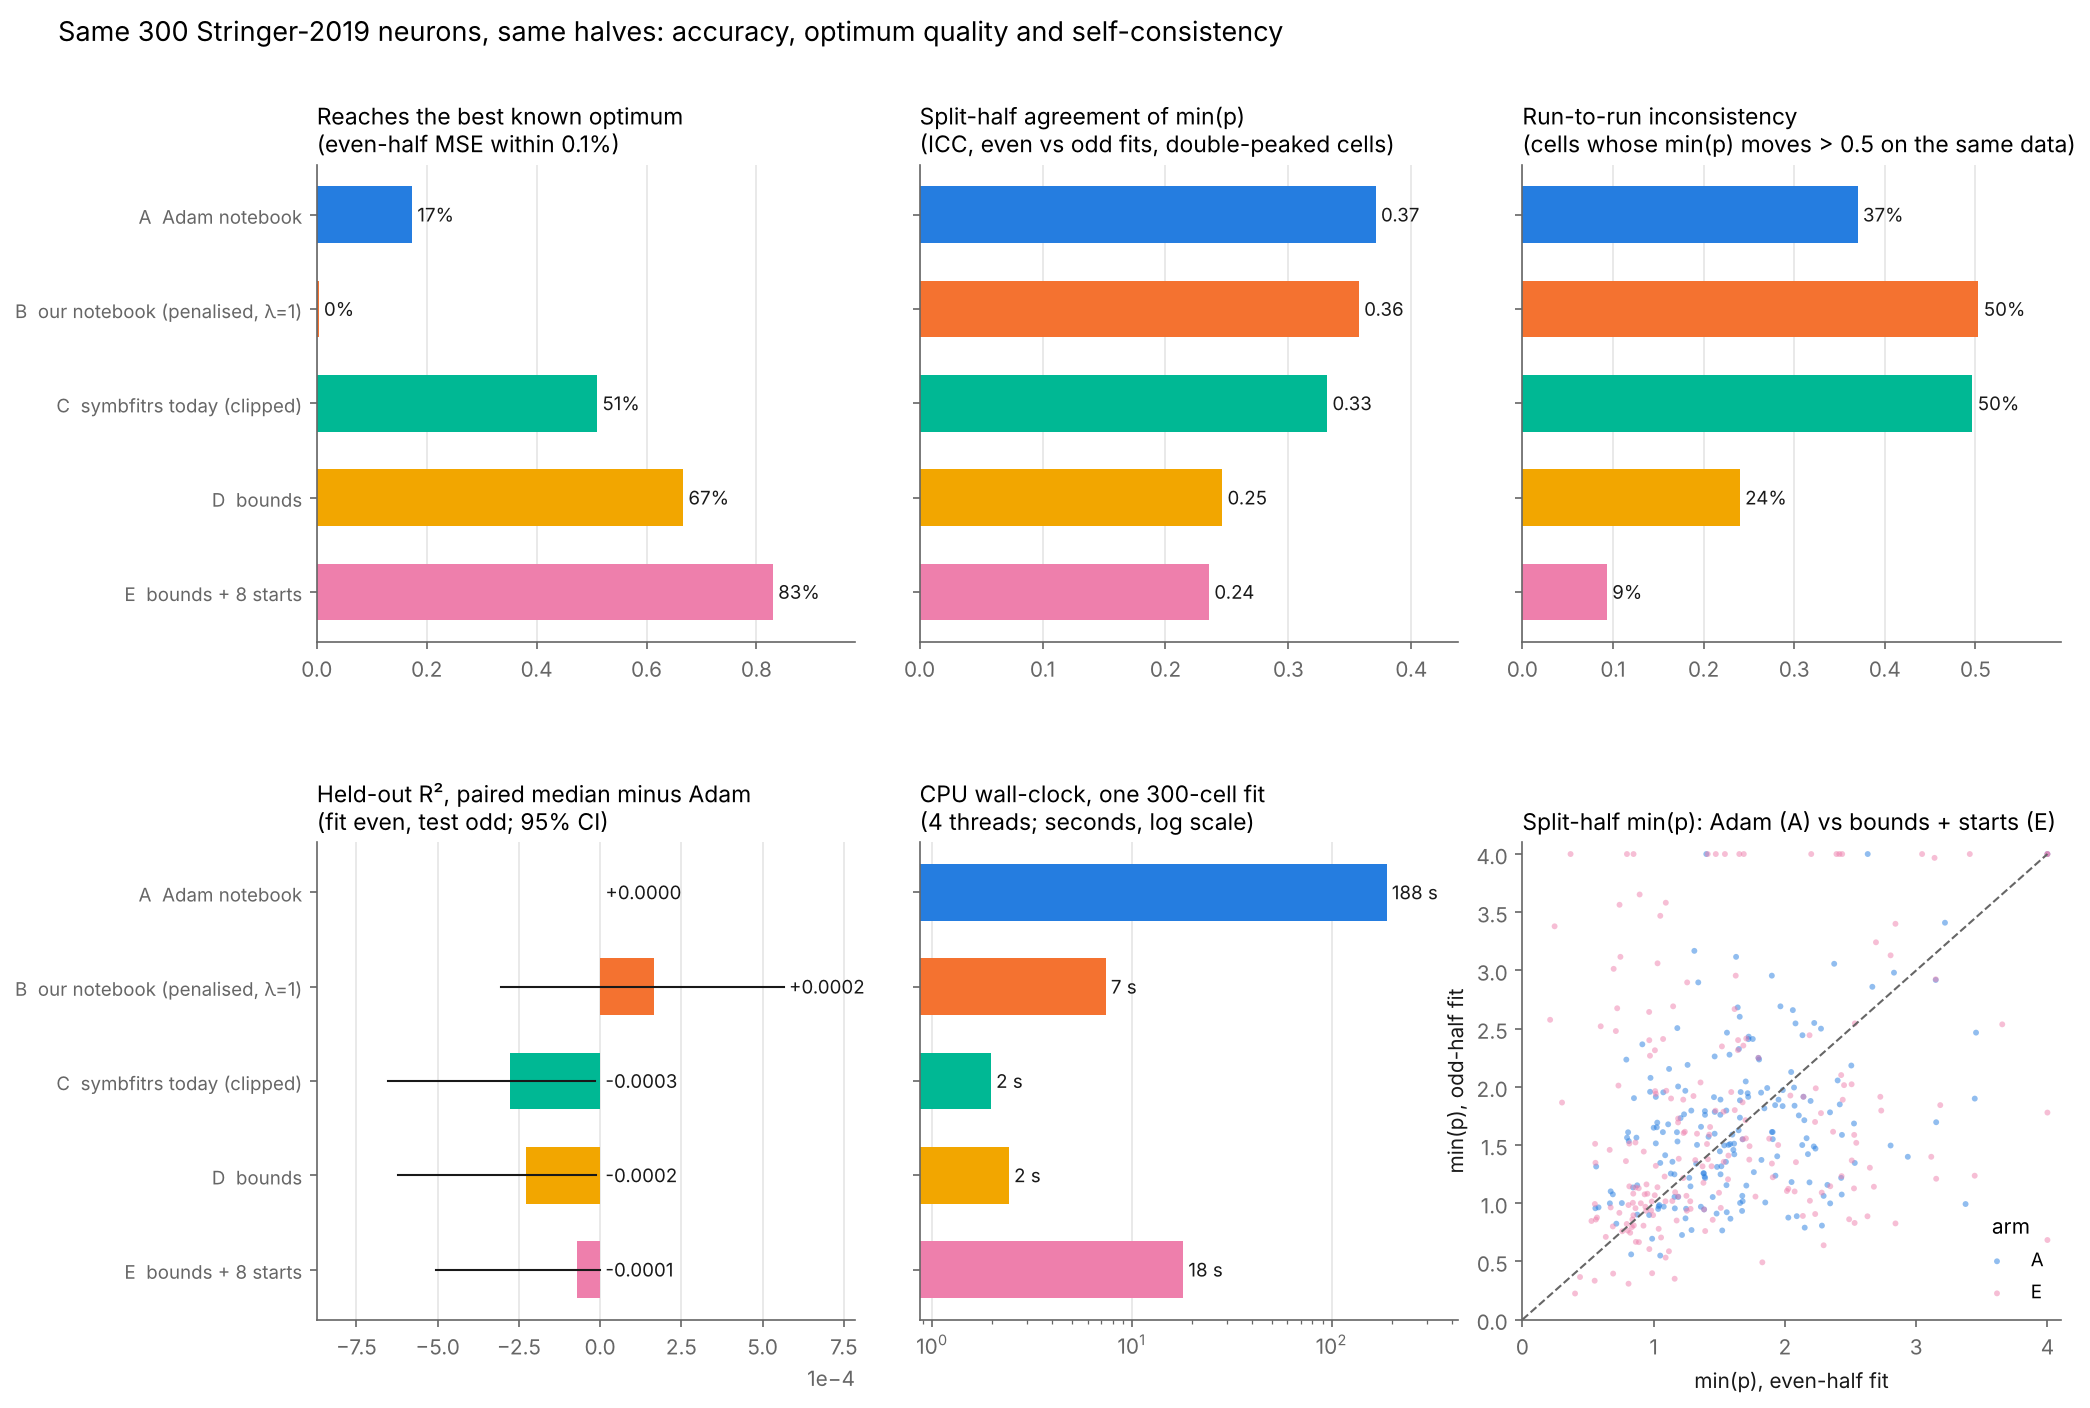
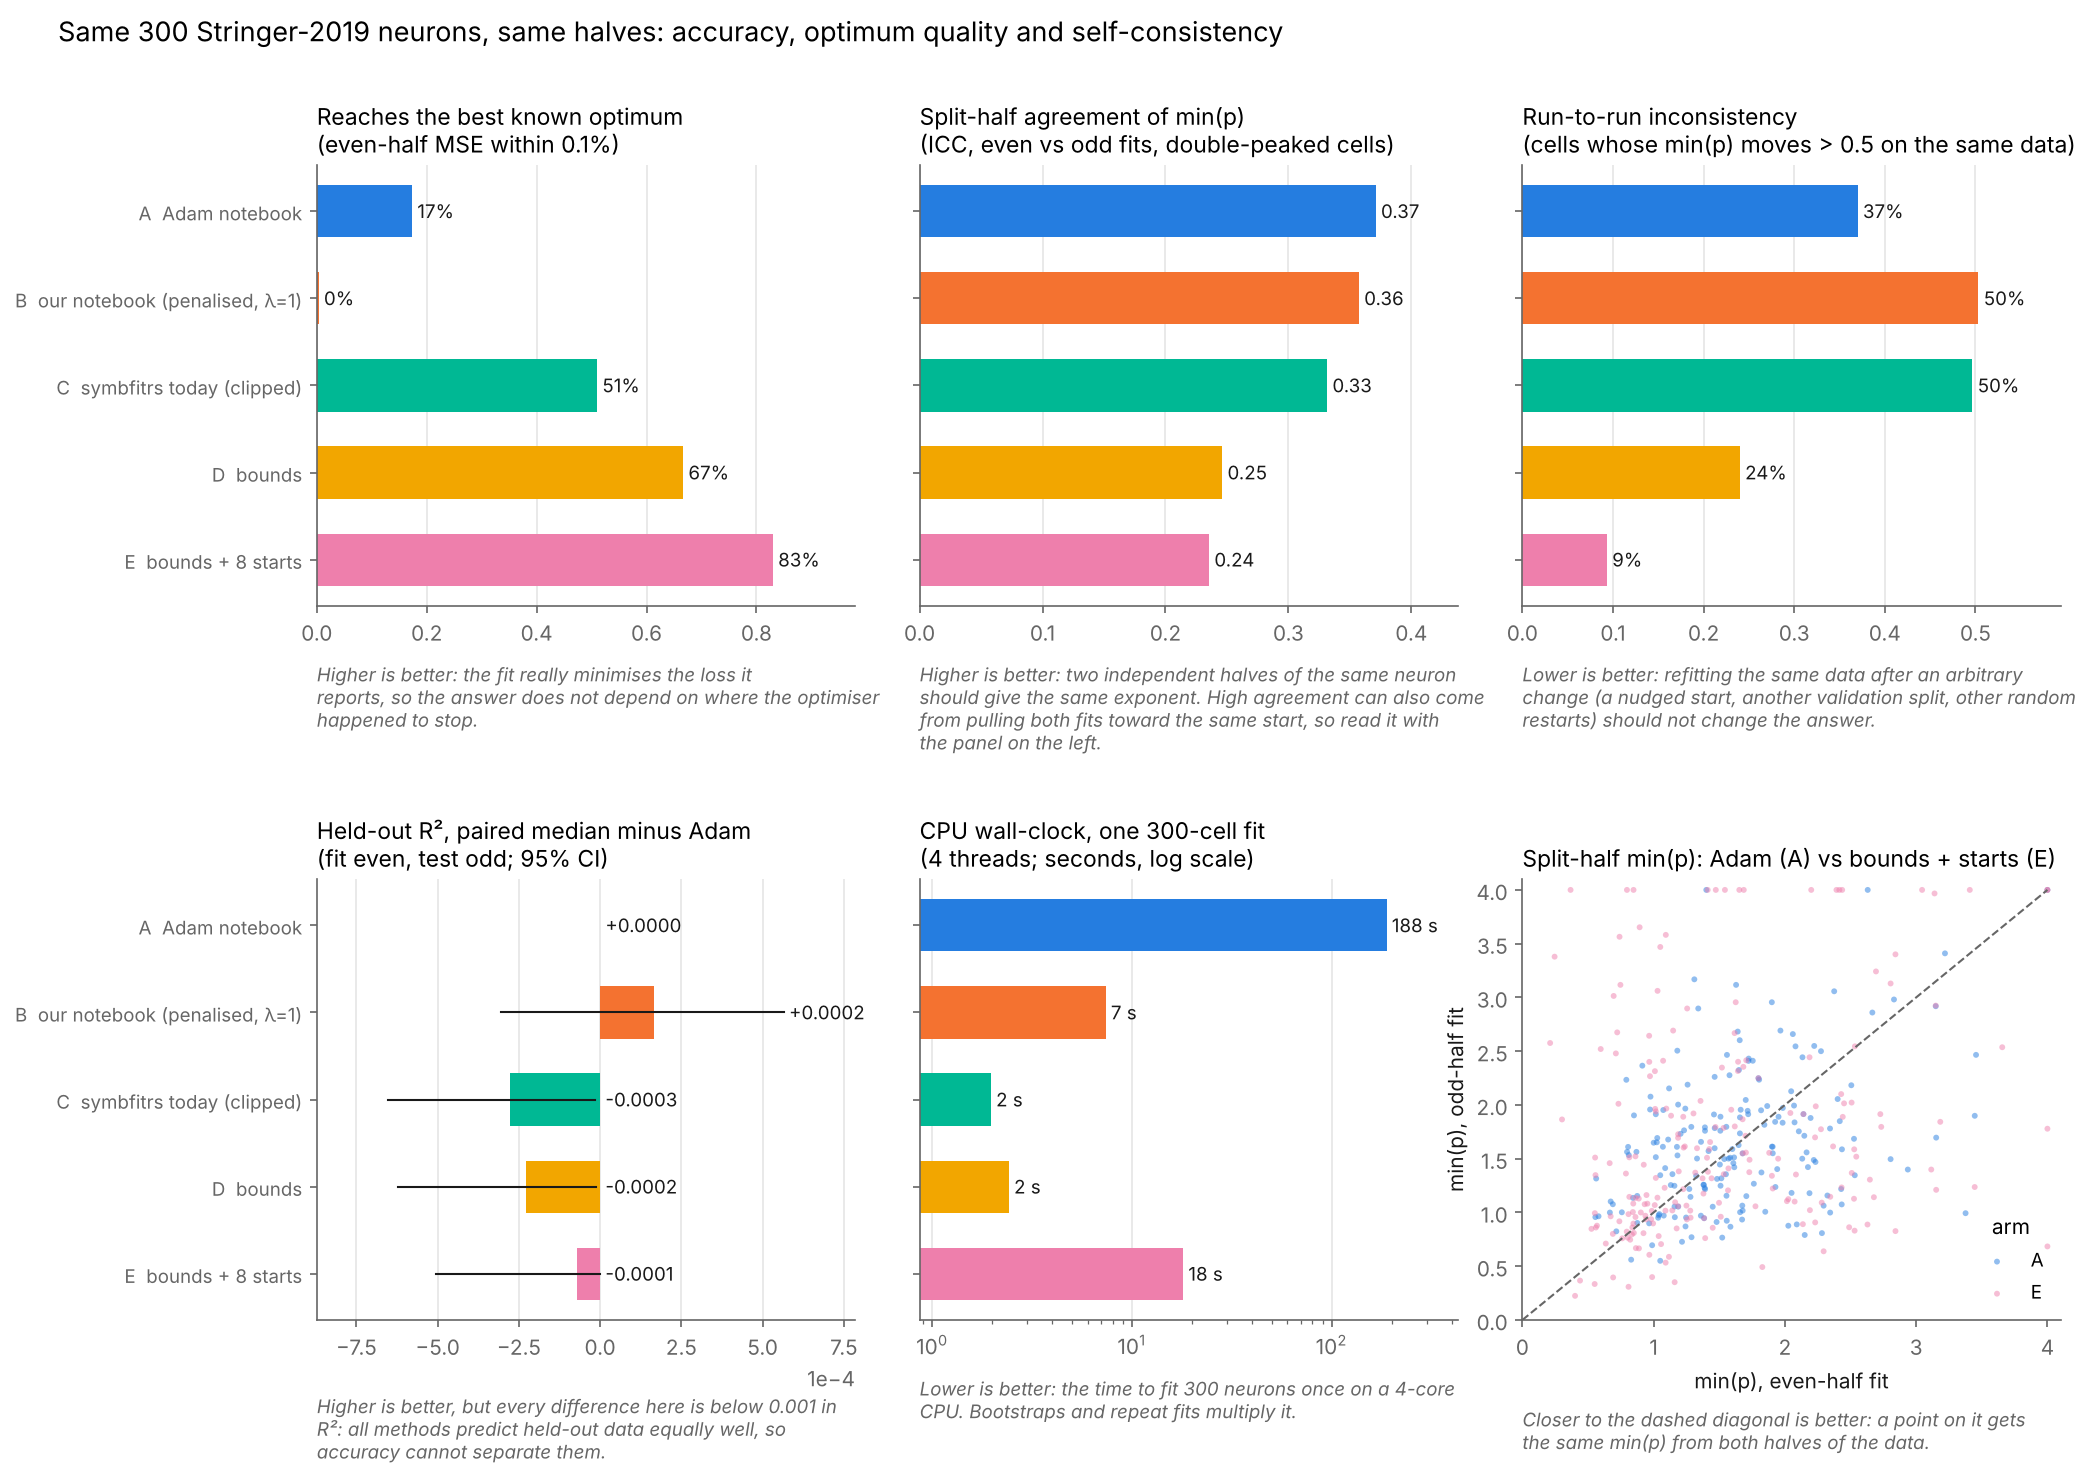
Caption each consistency panel with which direction is better and why
Claude-Session: https://claude.ai/code/session_018erzbjaWQH3btrVDHd4Ejq

diff --git a/analysis/summarize_consistency.py b/analysis/summarize_consistency.py
@@ -154,7 +154,15 @@ json.dump(rows, open(f'{OUT}/summary.json', 'w'), indent=1)
 plt.rcParams.update({'font.size': 10, 'axes.spines.top': False, 'axes.spines.right': False,
                      'axes.edgecolor': '#666666', 'axes.labelcolor': '#191919', 'xtick.color': '#666666', 'ytick.color': '#666666'})
 fig = plt.figure(figsize=(15, 10), dpi=150)
-gs = fig.add_gridspec(2, 3, hspace=0.42, wspace=0.12)
+gs = fig.add_gridspec(2, 3, hspace=0.62, wspace=0.12)
+import textwrap
+
+
+def caption(ax, text, y=-0.13):
+    """A short note under a panel: which direction is better, and why."""
+    ax.text(0, y, textwrap.fill(text, 62), transform=ax.transAxes, ha='left', va='top', fontsize=9,
+            color='#666666', style='italic')
+
 y = np.arange(len(arms))[::-1]
 
 def hbar(ax, vals, title, fmt='{:.0%}', ci=None, labels=True):
@@ -168,21 +176,30 @@ def hbar(ax, vals, title, fmt='{:.0%}', ci=None, labels=True):
     ax.set_yticks(y); ax.set_yticklabels([LABEL[a] for a in arms] if labels else [], fontsize=9)
     ax.set_title(title, fontsize=11, loc='left'); ax.grid(axis='x', color='#e5e5e5', lw=0.8); ax.set_axisbelow(True)
 
-hbar(fig.add_subplot(gs[0, 0]), [r['within_01'] for r in rows], 'Reaches the best known optimum\n(even-half MSE within 0.1%)')
-hbar(fig.add_subplot(gs[0, 1]), [r['icc'] for r in rows], 'Split-half agreement of min(p)\n(ICC, even vs odd fits, double-peaked cells)', '{:.2f}', labels=False)
-hbar(fig.add_subplot(gs[0, 2]), [r['rr_share_range_gt_05'] for r in rows], 'Run-to-run inconsistency\n(cells whose min(p) moves > 0.5 on the same data)', labels=False)
+ax = fig.add_subplot(gs[0, 0])
+hbar(ax, [r['within_01'] for r in rows], 'Reaches the best known optimum\n(even-half MSE within 0.1%)')
+caption(ax, 'Higher is better: the fit really minimises the loss it reports, so the answer does not depend on where the optimiser happened to stop.')
+ax = fig.add_subplot(gs[0, 1])
+hbar(ax, [r['icc'] for r in rows], 'Split-half agreement of min(p)\n(ICC, even vs odd fits, double-peaked cells)', '{:.2f}', labels=False)
+caption(ax, 'Higher is better: two independent halves of the same neuron should give the same exponent. High agreement can also come from pulling both fits toward the same start, so read it with the panel on the left.')
+ax = fig.add_subplot(gs[0, 2])
+hbar(ax, [r['rr_share_range_gt_05'] for r in rows], 'Run-to-run inconsistency\n(cells whose min(p) moves > 0.5 on the same data)', labels=False)
+caption(ax, 'Lower is better: refitting the same data after an arbitrary change (a nudged start, another validation split, other random restarts) should not change the answer.')
 ax = fig.add_subplot(gs[1, 0])
 if 'A' in R:
     hbar(ax, [r['d_r2_vs_A'] for r in rows], 'Held-out R², paired median minus Adam\n(fit even, test odd; 95% CI)', '{:+.4f}', [r['d_r2_ci'] for r in rows])
     ax.ticklabel_format(axis='x', style='sci', scilimits=(0, 0))
+    caption(ax, 'Higher is better, but every difference here is below 0.001 in R²: all methods predict held-out data equally well, so accuracy cannot separate them.', y=-0.17)
 ax = fig.add_subplot(gs[1, 1])
 hbar(ax, [r['secs_even'] for r in rows], 'CPU wall-clock, one 300-cell fit\n(4 threads; seconds, log scale)', '{:.0f} s', labels=False); ax.set_xscale('log')
+caption(ax, 'Lower is better: the time to fit 300 neurons once on a 4-core CPU. Bootstraps and repeat fits multiply it.')
 ax = fig.add_subplot(gs[1, 2])
 for a in arms:
     s = S[a]; ax.scatter(s['mpe'][s['dbl']], s['mpo'][s['dbl']], s=8, alpha=0.5, color=COLOR[a], label=a, edgecolors='none') if a in ('A', 'E') else None
 ax.plot([0, 4], [0, 4], color='#666666', lw=1, ls='--'); ax.set_xlim(0, 4.1); ax.set_ylim(0, 4.1)
 ax.set_xlabel('min(p), even-half fit'); ax.set_ylabel('min(p), odd-half fit'); ax.legend(title='arm', frameon=False, fontsize=9)
 ax.set_title('Split-half min(p): Adam (A) vs bounds + starts (E)', fontsize=11, loc='left')
+caption(ax, 'Closer to the dashed diagonal is better: a point on it gets the same min(p) from both halves of the data.', y=-0.2)
 fig.suptitle(('SYNTHETIC (known p): ' if SYNTH else '') + 'Same 300 Stringer-2019 neurons, same halves: accuracy, optimum quality and self-consistency', fontsize=13, x=0.01, ha='left')
 fig.savefig(f'{PNG}.png', bbox_inches='tight')
 
